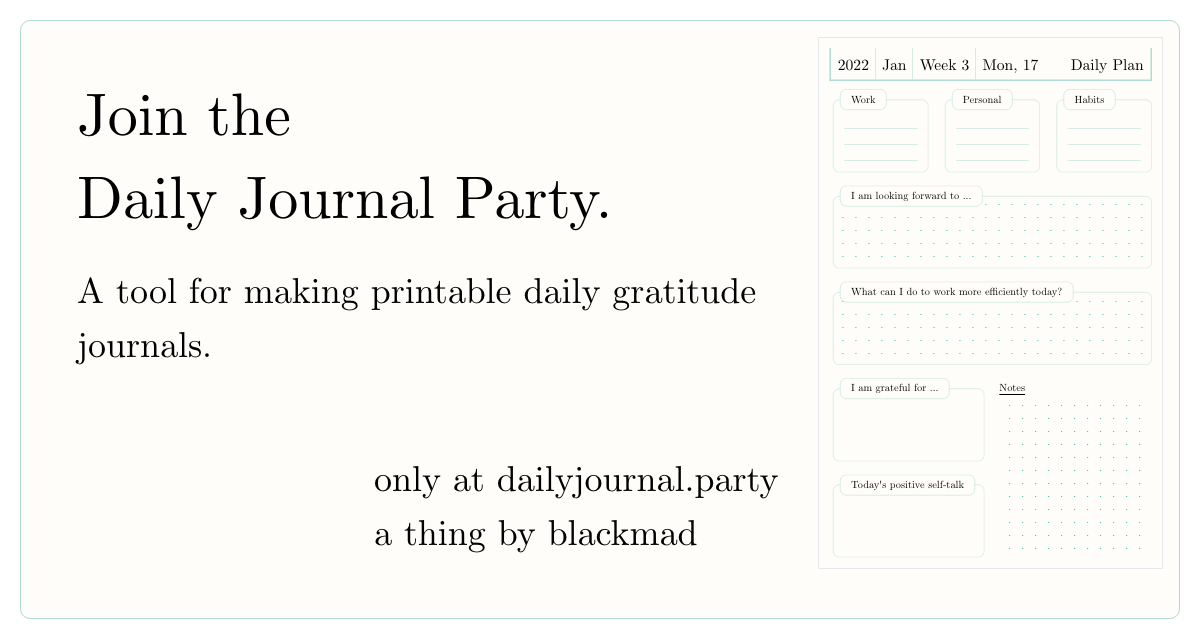
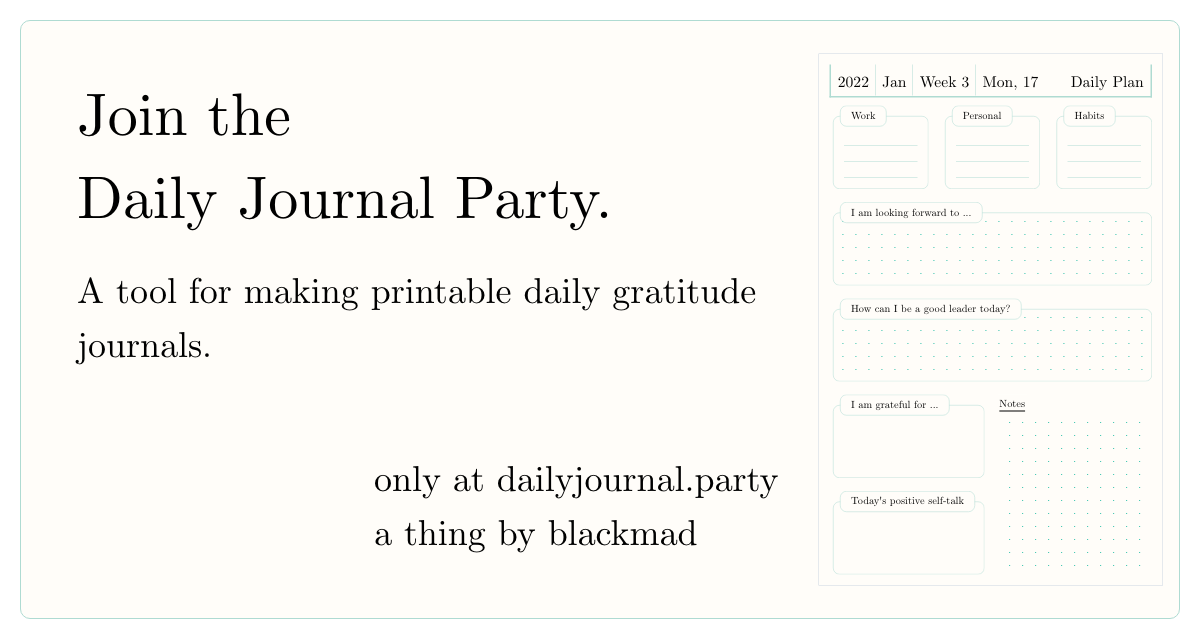
twittercard too

diff --git a/public/index.html b/public/index.html
@@ -29,6 +29,15 @@
 
     <meta property="og:image:height" content="630" />
 
+    <meta name="twitter:card" content="summary_large_image" />
+    <meta name="twitter:creator" content="@whizziwig" />
+    <meta name="twitter:title" content="dailyjournal.party" />
+    <meta
+      name="twitter:description"
+      content="A tool for generating printable daily gratitude journals."
+    />
+    <meta name="twitter:image" content="%PUBLIC_URL%/ogimage.png" />
+
     <link rel="apple-touch-icon" href="%PUBLIC_URL%/logo192.png" />
     <!--
       manifest.json provides metadata used when your web app is installed on a

diff --git a/src/OpenGraph.tsx b/src/OpenGraph.tsx
@@ -40,7 +40,7 @@ export default function OpenGraph() {
                 only at dailyjournal.party <br />a thing by blackmad
               </div>
             </div>
-            <div className="h-full flex flex-col align-middle justify-center justify-items-center ">
+            <div className="flex flex-col align-middle justify-center justify-items-center ">
               <div
                 className="border border-slate-300"
                 style={{

diff --git a/README.md b/README.md
@@ -1,46 +1,3 @@
-# Getting Started with Create React App
+## Regen opengraph card
 
-This project was bootstrapped with [Create React App](https://github.com/facebook/create-react-app).
-
-## Available Scripts
-
-In the project directory, you can run:
-
-### `yarn start`
-
-Runs the app in the development mode.\
-Open [http://localhost:3000](http://localhost:3000) to view it in the browser.
-
-The page will reload if you make edits.\
-You will also see any lint errors in the console.
-
-### `yarn test`
-
-Launches the test runner in the interactive watch mode.\
-See the section about [running tests](https://facebook.github.io/create-react-app/docs/running-tests) for more information.
-
-### `yarn build`
-
-Builds the app for production to the `build` folder.\
-It correctly bundles React in production mode and optimizes the build for the best performance.
-
-The build is minified and the filenames include the hashes.\
-Your app is ready to be deployed!
-
-See the section about [deployment](https://facebook.github.io/create-react-app/docs/deployment) for more information.
-
-### `yarn eject`
-
-**Note: this is a one-way operation. Once you `eject`, you can’t go back!**
-
-If you aren’t satisfied with the build tool and configuration choices, you can `eject` at any time. This command will remove the single build dependency from your project.
-
-Instead, it will copy all the configuration files and the transitive dependencies (webpack, Babel, ESLint, etc) right into your project so you have full control over them. All of the commands except `eject` will still work, but they will point to the copied scripts so you can tweak them. At this point you’re on your own.
-
-You don’t have to ever use `eject`. The curated feature set is suitable for small and middle deployments, and you shouldn’t feel obligated to use this feature. However we understand that this tool wouldn’t be useful if you couldn’t customize it when you are ready for it.
-
-## Learn More
-
-You can learn more in the [Create React App documentation](https://facebook.github.io/create-react-app/docs/getting-started).
-
-To learn React, check out the [React documentation](https://reactjs.org/).
+squint screenshot http://localhost:3000/opengraph --selector=.ogcard -o public/ogimage.png; file public/ogimage.png
